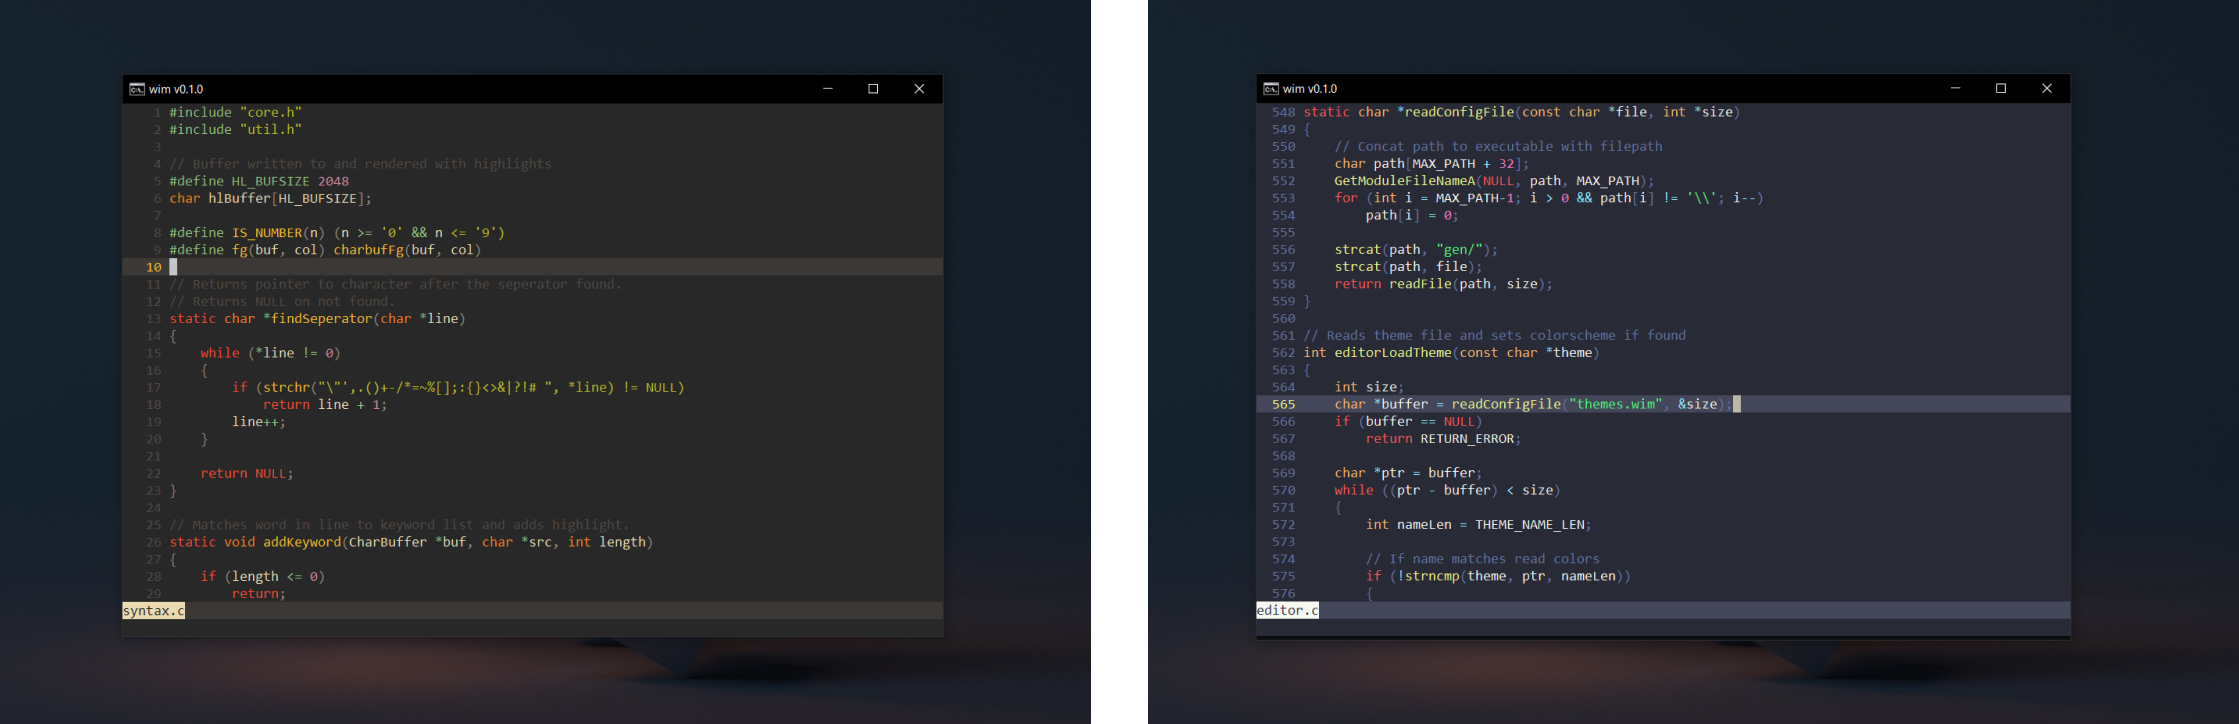
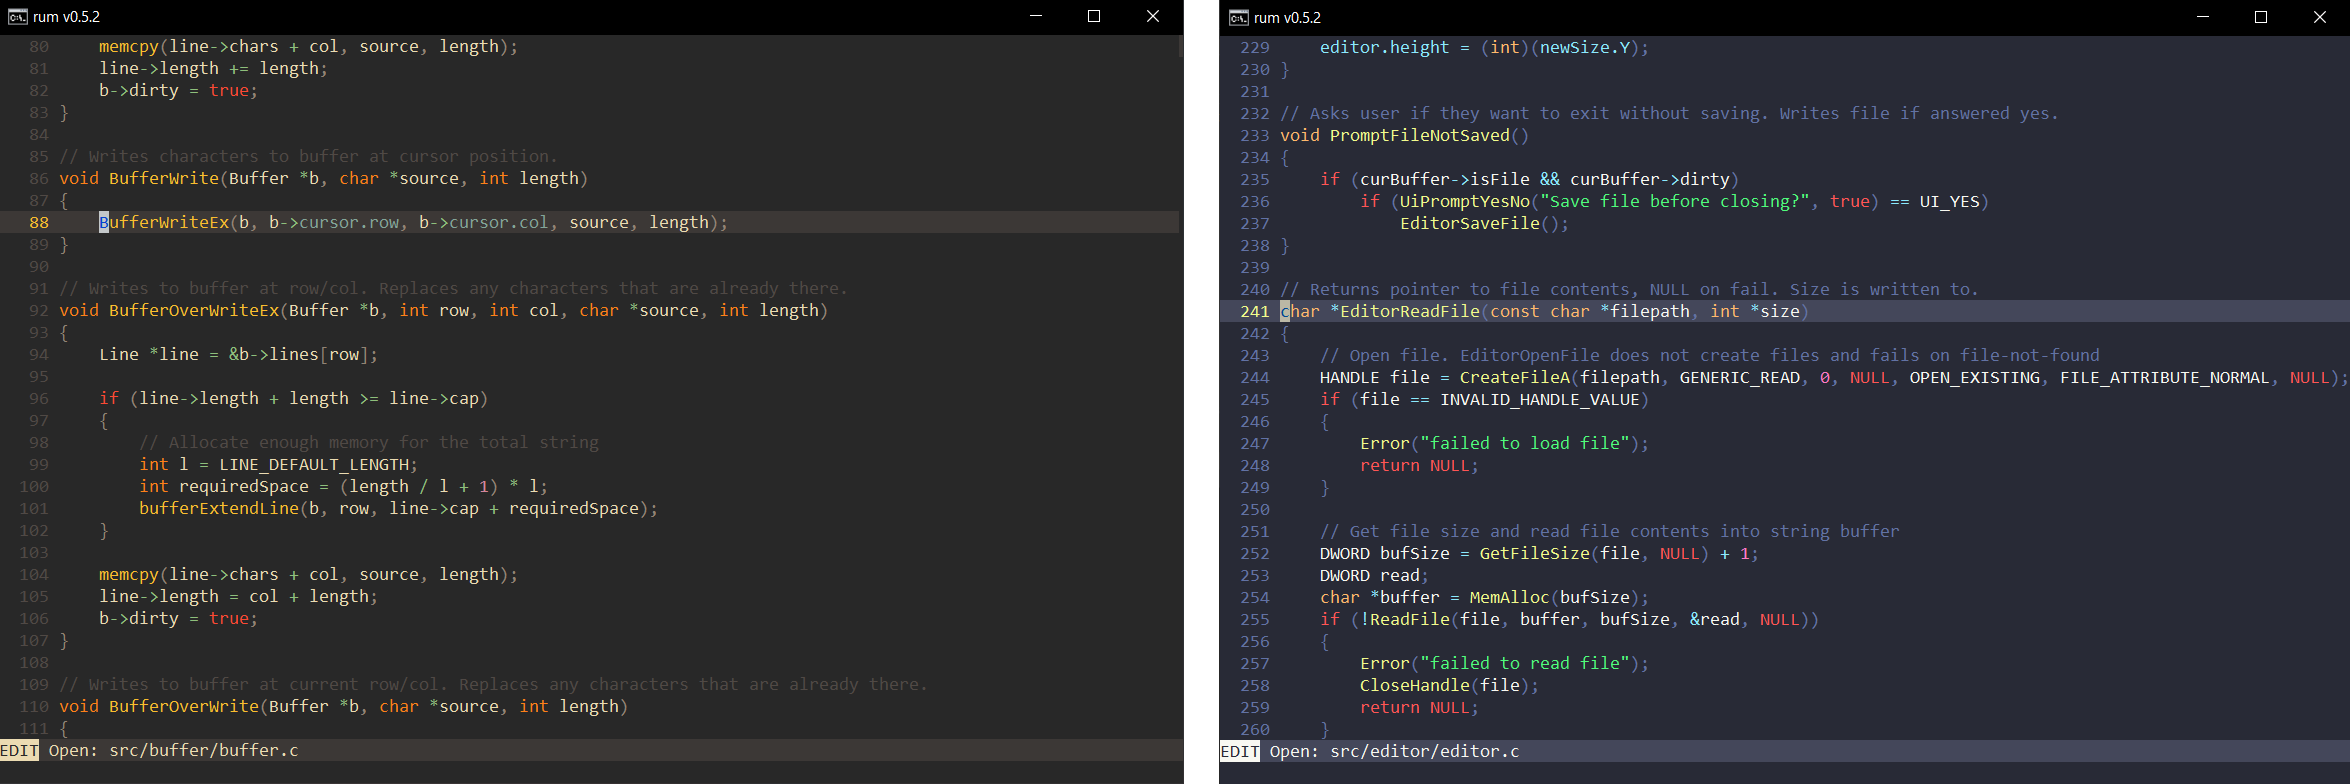
name change

Changed region(s): [[0.0, 0.0, 1.0, 1.0], [0.0, 0.6077, 0.3082, 0.942], [0.0, 0.942, 0.1233, 0.9724]]

diff --git a/src/editor/editor.c b/src/editor/editor.c
@@ -1,8 +1,8 @@
-// The editor is the main component of wim, including functionality for file IO, event handlers,
+// The editor is the main component of rum, including functionality for file IO, event handlers,
 // syntax and highlight controls, configuration and more. The editor global instance is declared
 // here and used by the entire core module.
 
-#include "wim.h"
+#include "rum.h"
 
 Editor editor; // Global editor instance used in core module
 Colors colors; // Global constant color palette loaded from theme.json
@@ -66,7 +66,7 @@ void EditorInit(CmdOptions options)
 
     editor.mode = MODE_INSERT;
 
-    if (!LoadTheme("gruvbox", &colors))
+    if (!LoadTheme("dracula", &colors))
         error_exit("Failed to load default theme");
 
     if (!LoadConfig(&config))

diff --git a/src/cmd/cmd.c b/src/cmd/cmd.c
@@ -1,10 +1,10 @@
-#include "wim.h"
+#include "rum.h"
 
 // Todo: implement proper arg parsing
 
 static void printHelp()
 {
-    printf("Usage: wim [filename] [options]      \n");
+    printf("Usage: rum [filename] [options]      \n");
     printf("                                     \n");
     printf("Options:                             \n");
     printf("    -v --version   print version     \n");

diff --git a/src/screen/render.c b/src/screen/render.c
@@ -1,4 +1,4 @@
-#include "wim.h"
+#include "rum.h"
 
 extern Editor editor;
 extern Colors colors;
@@ -66,7 +66,7 @@ static void drawWelcomeScreen(CharBuf *buf)
 {
     char *lines[] = {
         TITLE,
-        "github.com/jesperkha/wim",
+        "github.com/jesperkha/rum",
         "",
         "Keybinds               Commands (ctrl-c)",
         "quit         ctrl-q    :save            ",

diff --git a/src/rum/typing.c b/src/rum/typing.c
@@ -1,6 +1,6 @@
-// All the typing functionality wim features out of the box neatly packed into one API/file.
+// All the typing functionality rum features out of the box neatly packed into one API/file.
 
-#include "wim.h"
+#include "rum.h"
 
 #define BLANKS "        " // 8
 

diff --git a/src/buffer/buffer.c b/src/buffer/buffer.c
@@ -1,6 +1,6 @@
 // All things related to writing, deleting, and modifying things in the current buffer.
 
-#include "wim.h"
+#include "rum.h"
 
 extern Editor editor;
 extern Colors colors;

diff --git a/src/editor/help.c b/src/editor/help.c
@@ -1,4 +1,4 @@
-char HELP_TEXT[] = "wim help manual \n"
+char HELP_TEXT[] = "rum help manual \n"
                    "\n"
                    ""
                    "";

diff --git a/include/rum.h b/include/rum.h
@@ -1,7 +1,7 @@
 #pragma once
 
 #include "version.h"
-#define TITLE "wim v" VERSION
+#define TITLE "rum v" VERSION
 
 typedef unsigned char byte;
 

diff --git a/src/util/string.c b/src/util/string.c
@@ -1,4 +1,4 @@
-#include "wim.h"
+#include "rum.h"
 
 // Gets filename, including extension, from filepath
 void StrFilename(char *dest, char *src)

diff --git a/src/buffer/cursor.c b/src/buffer/cursor.c
@@ -1,6 +1,6 @@
 // Cursor manipulation, both in buffer space and terminal space.
 
-#include "wim.h"
+#include "rum.h"
 
 extern Editor editor;
 

diff --git a/include/api.h b/include/api.h
@@ -1,4 +1,4 @@
-// The high level api for wim commands and actions.
+// The high level api for rum commands and actions.
 
 #pragma once
 

diff --git a/src/util/charbuf.c b/src/util/charbuf.c
@@ -1,6 +1,6 @@
 // Helper struct for accumulating strings to print.
 
-#include "wim.h"
+#include "rum.h"
 
 extern Editor editor;
 

diff --git a/src/editor/config.c b/src/editor/config.c
@@ -1,4 +1,4 @@
-#include "wim.h"
+#include "rum.h"
 
 #define wordSize 32 // Size of token lexemes
 
